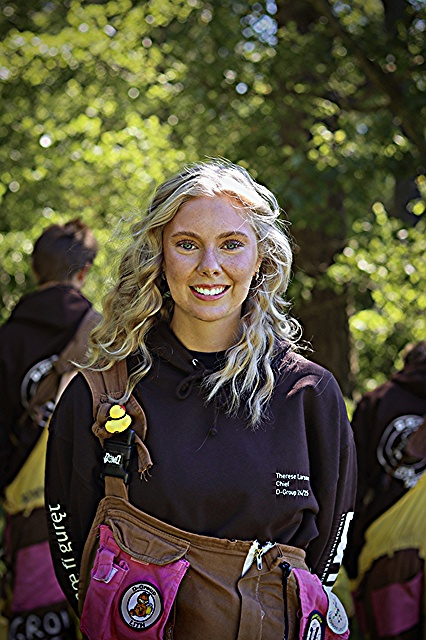
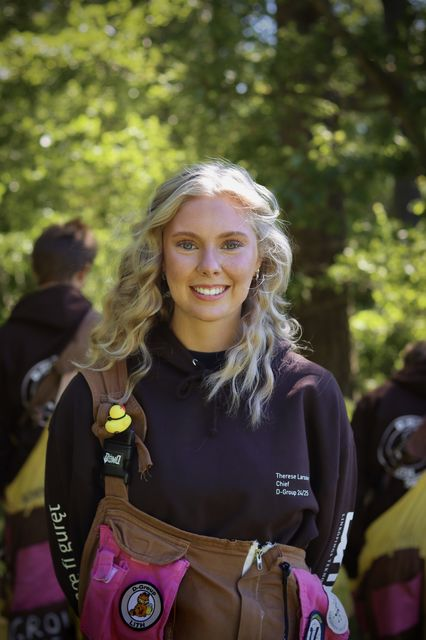
mobile version

diff --git a/build/index.html b/build/index.html
@@ -1,1 +1,1 @@
-<!doctype html><html lang="en"><head><meta charset="utf-8"/><link rel="icon" href="/favicon.ico"/><meta name="viewport" content="width=device-width,initial-scale=1"/><meta name="theme-color" content="#000000"/><meta name="description" content="D-Sektionens eminenta festeri D-Group"/><link rel="apple-touch-icon" href="/favicon.ico"/><link rel="manifest" href="/manifest.json"/><title>D-Group - D-Sektionens eminenta festeri</title><script defer="defer" src="/static/js/main.01854a9c.js"></script><link href="/static/css/main.227214be.css" rel="stylesheet"></head><body><noscript>You need to enable JavaScript to run this app. Sämst lol, omg soopaa</noscript><div id="root"></div></body></html>
+<!doctype html><html lang="en"><head><meta charset="utf-8"/><link rel="icon" href="/favicon.ico"/><meta name="viewport" content="width=device-width,initial-scale=1"/><meta name="theme-color" content="#000000"/><meta name="description" content="D-Sektionens eminenta festeri D-Group"/><link rel="apple-touch-icon" href="/favicon.ico"/><link rel="manifest" href="/manifest.json"/><title>D-Group - D-Sektionens eminenta festeri</title><script defer="defer" src="/static/js/main.0764ab75.js"></script><link href="/static/css/main.227214be.css" rel="stylesheet"></head><body><noscript>You need to enable JavaScript to run this app. Sämst lol, omg soopaa</noscript><div id="root"></div></body></html>
